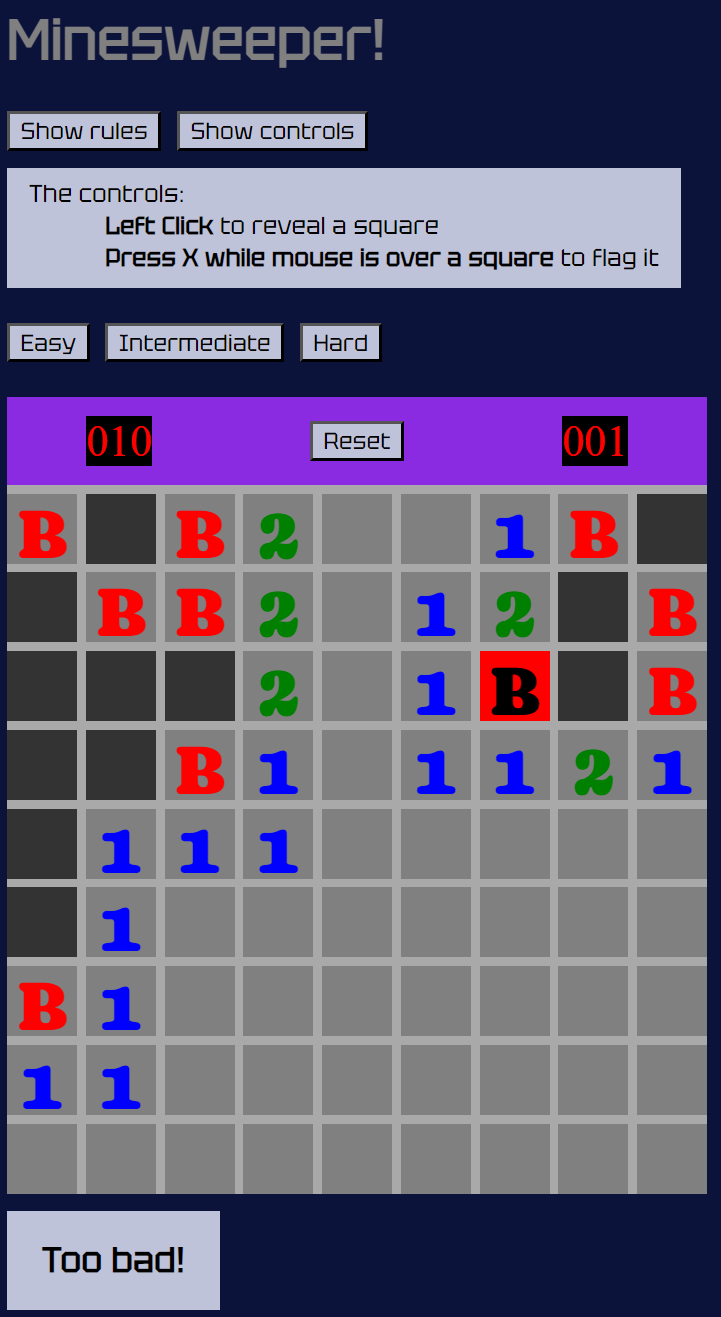
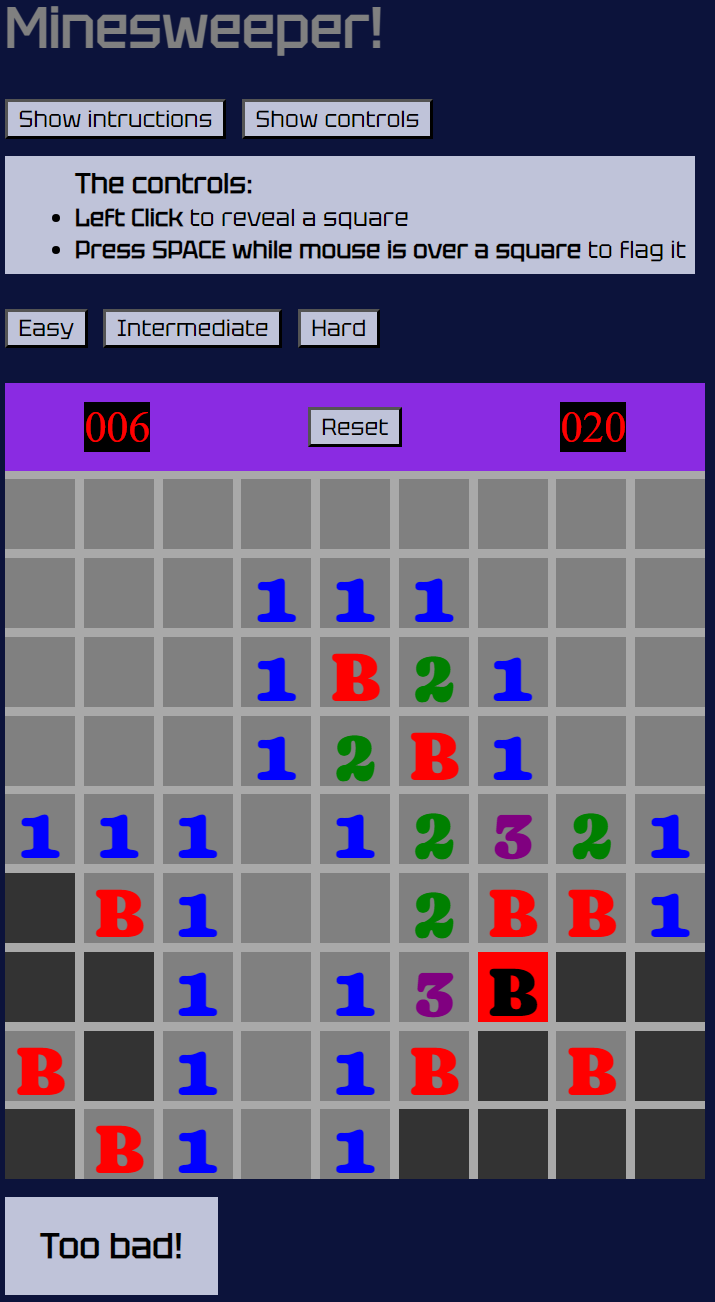
update intructions/controls and update the screenshots in README

diff --git a/index.html b/index.html
@@ -10,16 +10,25 @@
 <body>
     <h1>Minesweeper!</h1>
     <div id="rulesButtons">
-        <input type="button" class="toggle" id="toggleRules" value="Show rules" />
+        <input type="button" class="toggle" id="toggleRules" value="Show intructions" />
         <input type="button" class="toggle" id="toggleControls" value="Show controls" />
     </div>
     <div id="rulesText">
-        <fieldset class="is-hidden multiline" id="intructions">The rules: 
-                It Minesweeper - 
-                Really Cool</fieldset>
-        <fieldset class="is-hidden multiline" id="controls"><span>The controls: 
-            <span class="bold">Left Click</span> to reveal a square
-            <span class="bold">Press X while mouse is over a square</span> to flag it</fieldset>
+        <ul class="is-hidden" id="intructions"><span class="bold">Intructions:</span> 
+            <li>The goal of the game is to <span class="bold">reveal all squares</span> that don't have a bomb it.</li>
+            <li><span class="bold">If the square has a number on it,</span> it means there are that many bombs in the surrounding 8 squares.</li>
+            <li><span class="bold">If the square has no number on it,</span> all surrounding squares will also be revealed until number squares are revealed or the border is hit.</li>
+            <li>You may <span class="bold">flag squares</span> that may have bombs in them, up to the number of bombs on the board.</li>
+            <li>Press <span class="bold">Easy/Intermediate/Hard</span> to change the board.</li>
+            <li>Press <span class="bold">Reset</span> to reset the board.</li>
+            <li>Number on at the <span class="bold">top-left of the board</span> shows how many flags you have left.</li>
+            <li>Number on at the <span class="bold">top-right of the board</span> shows the time.</li>
+            
+        </ul>
+        <ul class="is-hidden" id="controls"><span><span class="bold">The controls:</span> 
+            <li><span class="bold">Left Click</span> to reveal a square</li>
+            <li><span class="bold">Press SPACE while mouse is over a square</span> to flag it</li>
+        </ul>
     </div>
     <div id="difficulties">
         <input type="button" class="changeBoard" id="beginner" value="Easy" />

diff --git a/css/styles.css b/css/styles.css
@@ -53,14 +53,19 @@ h1{
 
 #rulesText{
     font-family: 'Tektur', cursive;
-    font-size: 14px;
     display: table;
     background-color: #bfc3d9;
     margin: 10px 0 -20px 0;
 }
 
-fieldset{
-    border: 0px;
+ul{
+    margin: 5px 0;
+    font-size: 16px;
+}
+
+li{
+    margin: 0 5px 0 0;
+    font-size: 14px;
 }
 
 input[type='button']{

diff --git a/js/app.js b/js/app.js
@@ -504,7 +504,7 @@ document.addEventListener('mousemove', (e) => {
 })
 
 document.addEventListener('keydown', (event) => {
-    if(event.code === 'KeyX'){
+    if(event.code === 'Space'){
         let elem = document.elementFromPoint(positionHovered[0], positionHovered[1])
         if(!sweep.gameOver){
             sweep.toggleFlag(elem)
